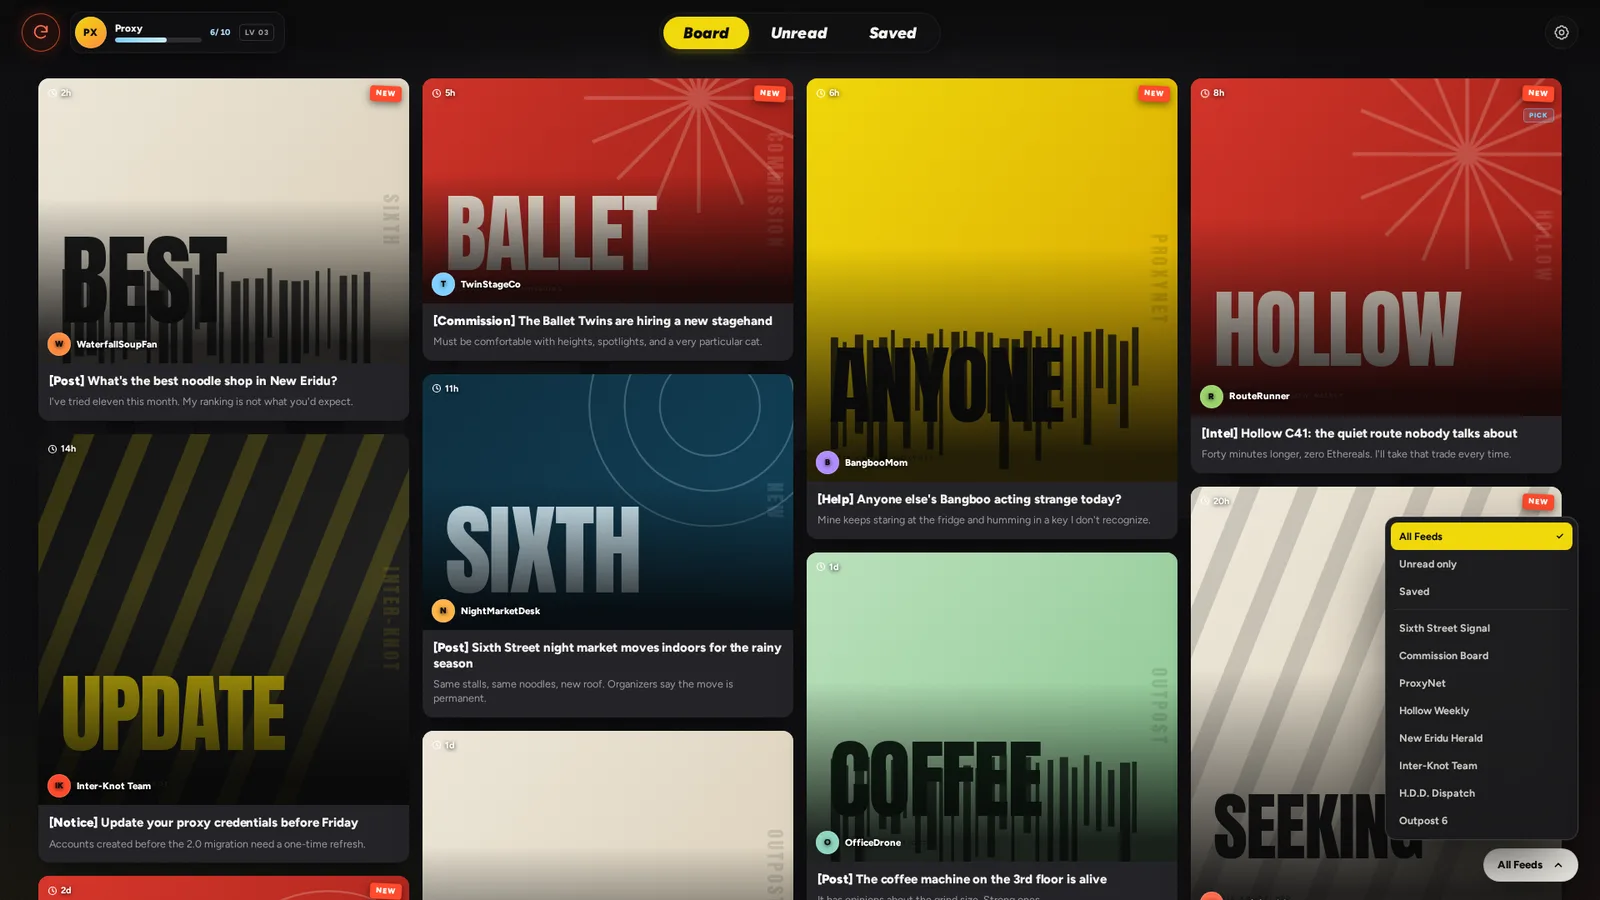
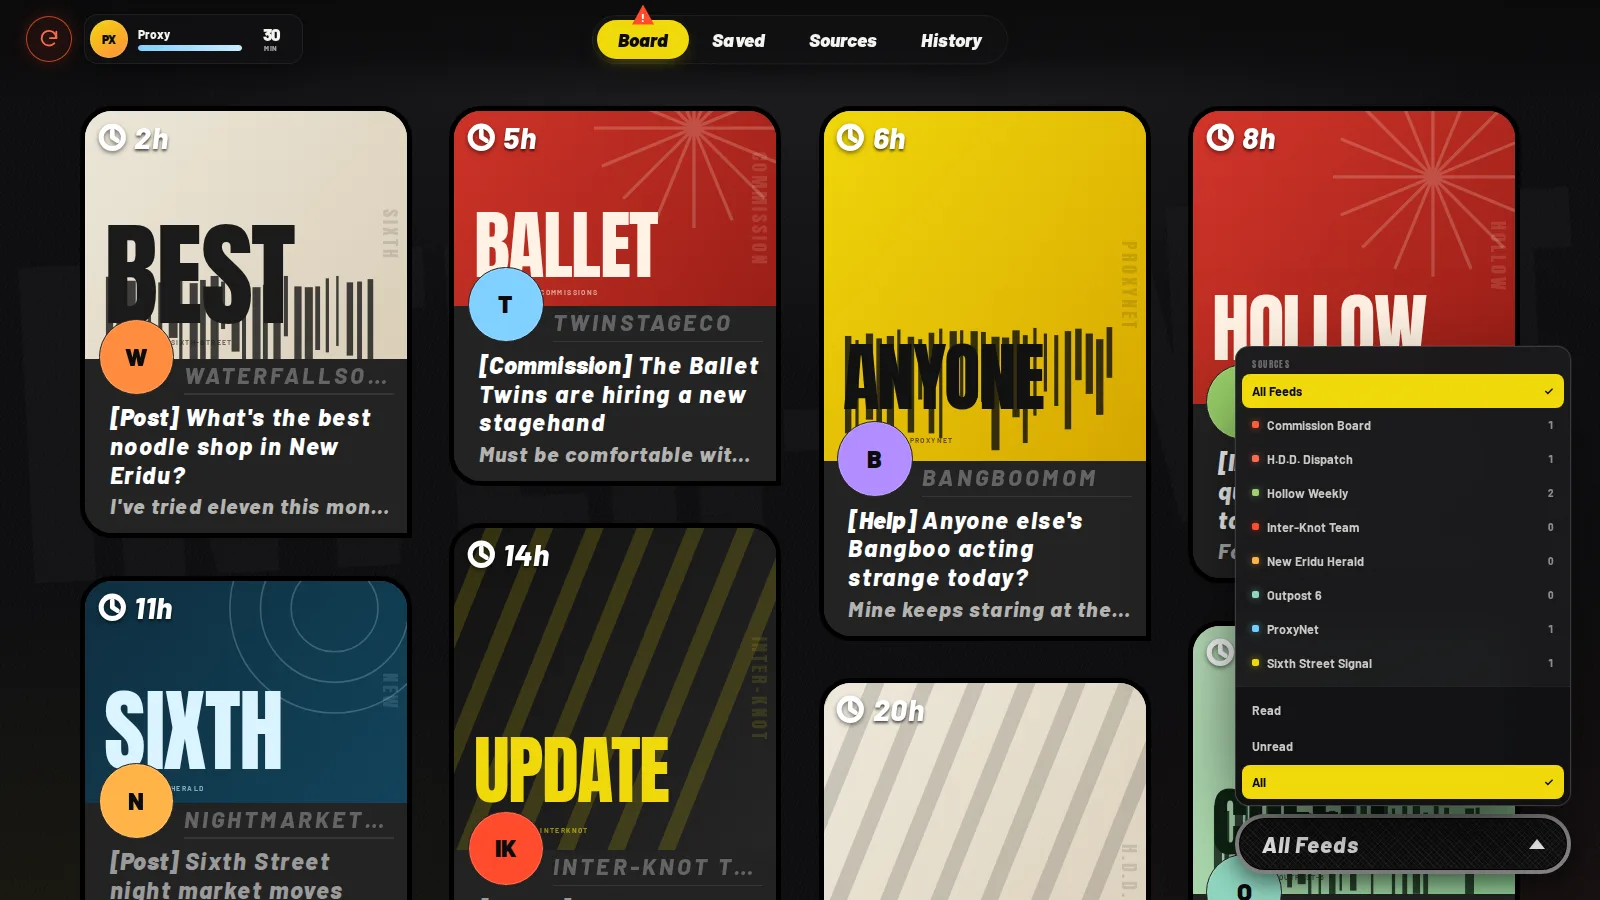
docs: refresh the board screenshots for the reference card
Document the flat card, clock/time badge, Barlow type, seeded bands, and up-to-eight-column sizing. Regenerate the board, filter, post, and mobile screenshots from the new build.

diff --git a/docs/ARCHITECTURE.md b/docs/ARCHITECTURE.md
@@ -39,7 +39,7 @@ can be replaced without touching the design layer.
 | `<ik-app>`         | Owns articles, section, scope, source filter, opened/saved state, timer, pagination. |
 | `<ik-topbar>`      | Refresh control, mindful cap chip, `Board`/`Saved`/`Sources`/`History`.              |
 | `<ik-board>`       | Masonry layout, adaptive batch size, optional read-on-scroll observer.               |
-| `<ik-card>`        | One post: media, time badge, source mark, tag, title, excerpt.                       |
+| `<ik-card>`        | One post: media, clock/time badge, author strip, tag, title, preview.                |
 | `<ik-poster>`      | Deterministic SVG/CSS poster for posts without a photo.                              |
 | `<ik-post-dialog>` | Post reader over the blurred board; save, comments, quote, system note.              |
 | `<ik-sources>`     | Source management shell; direct RSS fills it next.                                   |
@@ -158,7 +158,11 @@ request.
   grain, and UI SDK parts share one stylesheet. There is no shadow-root theming
   layer to maintain.
 - **Masonry.** CSS columns are avoided because they break reading order. The
-  board is a flex row of flex columns, filled by estimated height.
+  board is a flex row of flex columns. The first two bands are seeded in feed
+  order, then the rest of the cards balance toward the shortest column.
+- **Columns.** The board targets a 380px card, caps a column at 400px, and
+  allows up to eight columns on very wide displays. `columnCountForWidth()`
+  keeps the layout and pagination in sync.
 - **Pagination.** The board measures its column count, viewport, and rendered
   card heights, then asks `computeBatchSize()` for roughly five screens of cards.
   The app keeps a `limit`; there is no scroll-triggered auto-load.
@@ -177,7 +181,7 @@ request.
 
 - Vitest covers deterministic helpers (`hashString`, `mulberry32`,
   `relativeTime`, `initials`, mindful timer math, adaptive batch size,
-  scope/source filtering, and full-card visibility).
+  scope/source filtering, column counts, and full-card visibility).
 - The planned parser suite uses fixtures for RSS 2.0, Atom, RDF, JSON Feed,
   malformed XML, relative URLs, and entity-expansion attempts.
 - The planned proxy suite covers URL validation and private-IP blocking.

diff --git a/README.md b/README.md
@@ -41,9 +41,9 @@ it stays a queue.
 
 ## What works today
 
-- Order-preserving masonry: 4 → 3 → 2 → 1 columns.
-- Post cards with relative time, unread/new markers, source identity, tag, title,
-  excerpt.
+- Order-preserving masonry: 1 → 2 → 3 → 4 → 5 → 8 columns, depending on width.
+- Post cards with a clock/time badge, read-state title color, author strip, tag,
+  title, and a one-line preview.
 - Deterministic generated posters for posts without images (8 palettes, 5
   patterns) — no grey placeholders.
 - Post dialog: blurred backdrop, source bar, save toggle, red close button,

diff --git a/docs/ROADMAP.md b/docs/ROADMAP.md
@@ -24,7 +24,8 @@ Shipped after the first UI demo.
 - Adaptive `Load more` at roughly five board viewports; no infinite scroll.
 - Opening a post marks it read, files it in History, and allows saving.
 - Opt-in read-on-scroll with a full-card dwell.
-- Source identity on cards; Proxy sheet for preferences.
+- Reference card composition with clock/time badge and Barlow; source identity
+  stays in the filter and dialog. Proxy sheet for preferences.
 - Red tab alerts use the game's warning triangle.
 
 ## v0.2.0 — feed core
